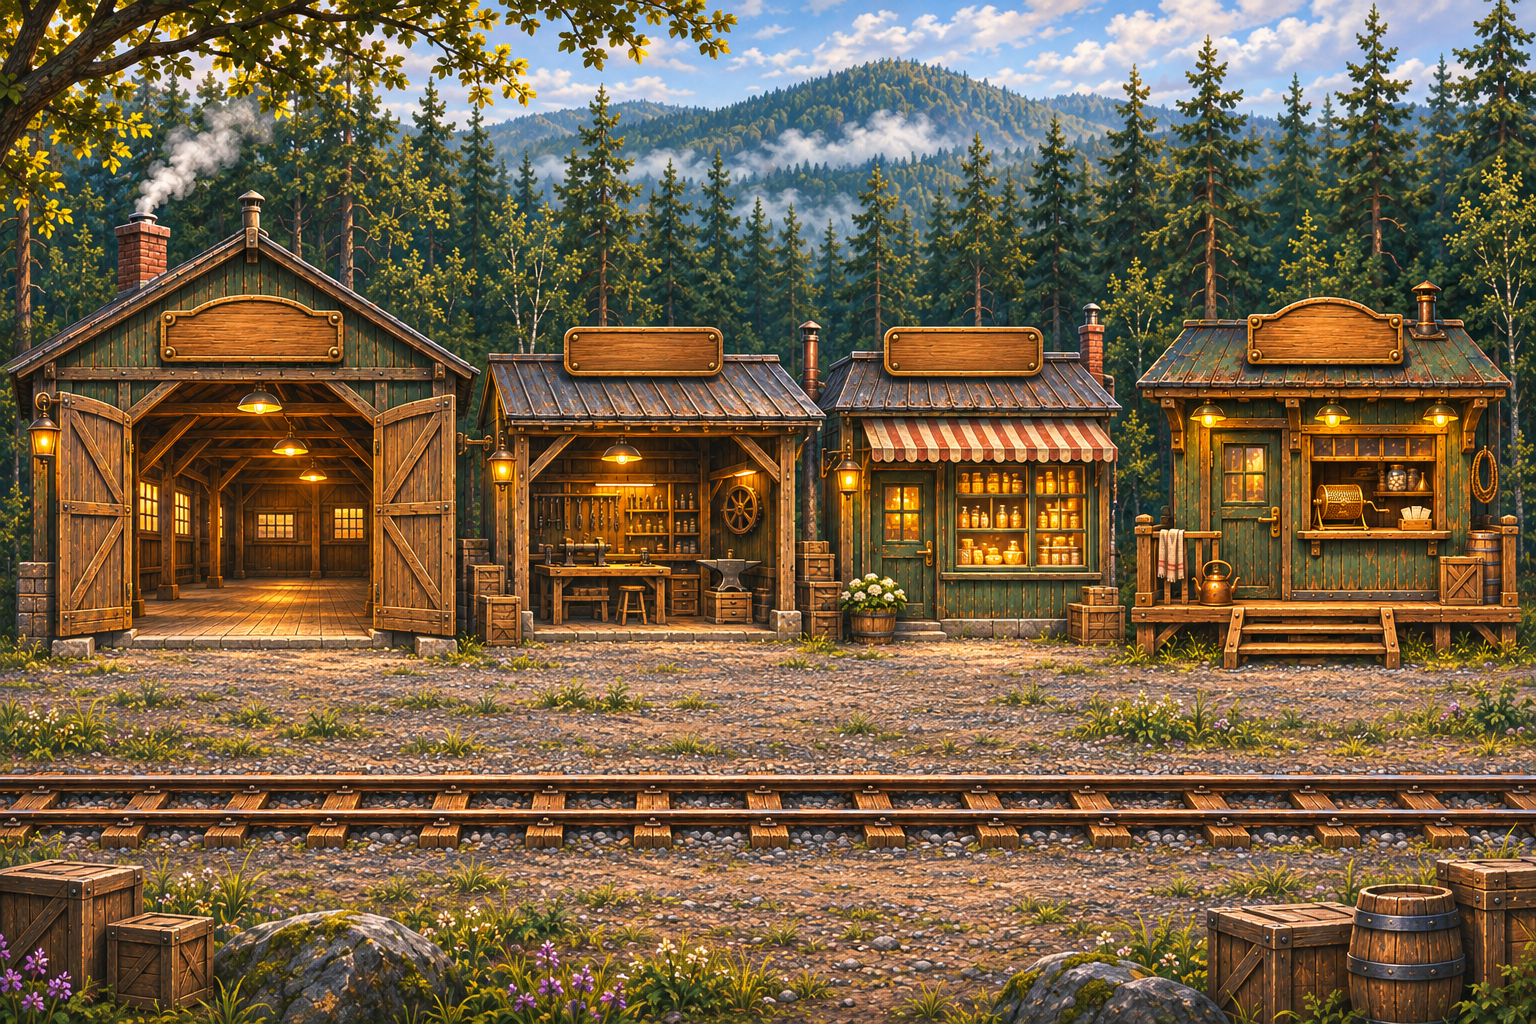
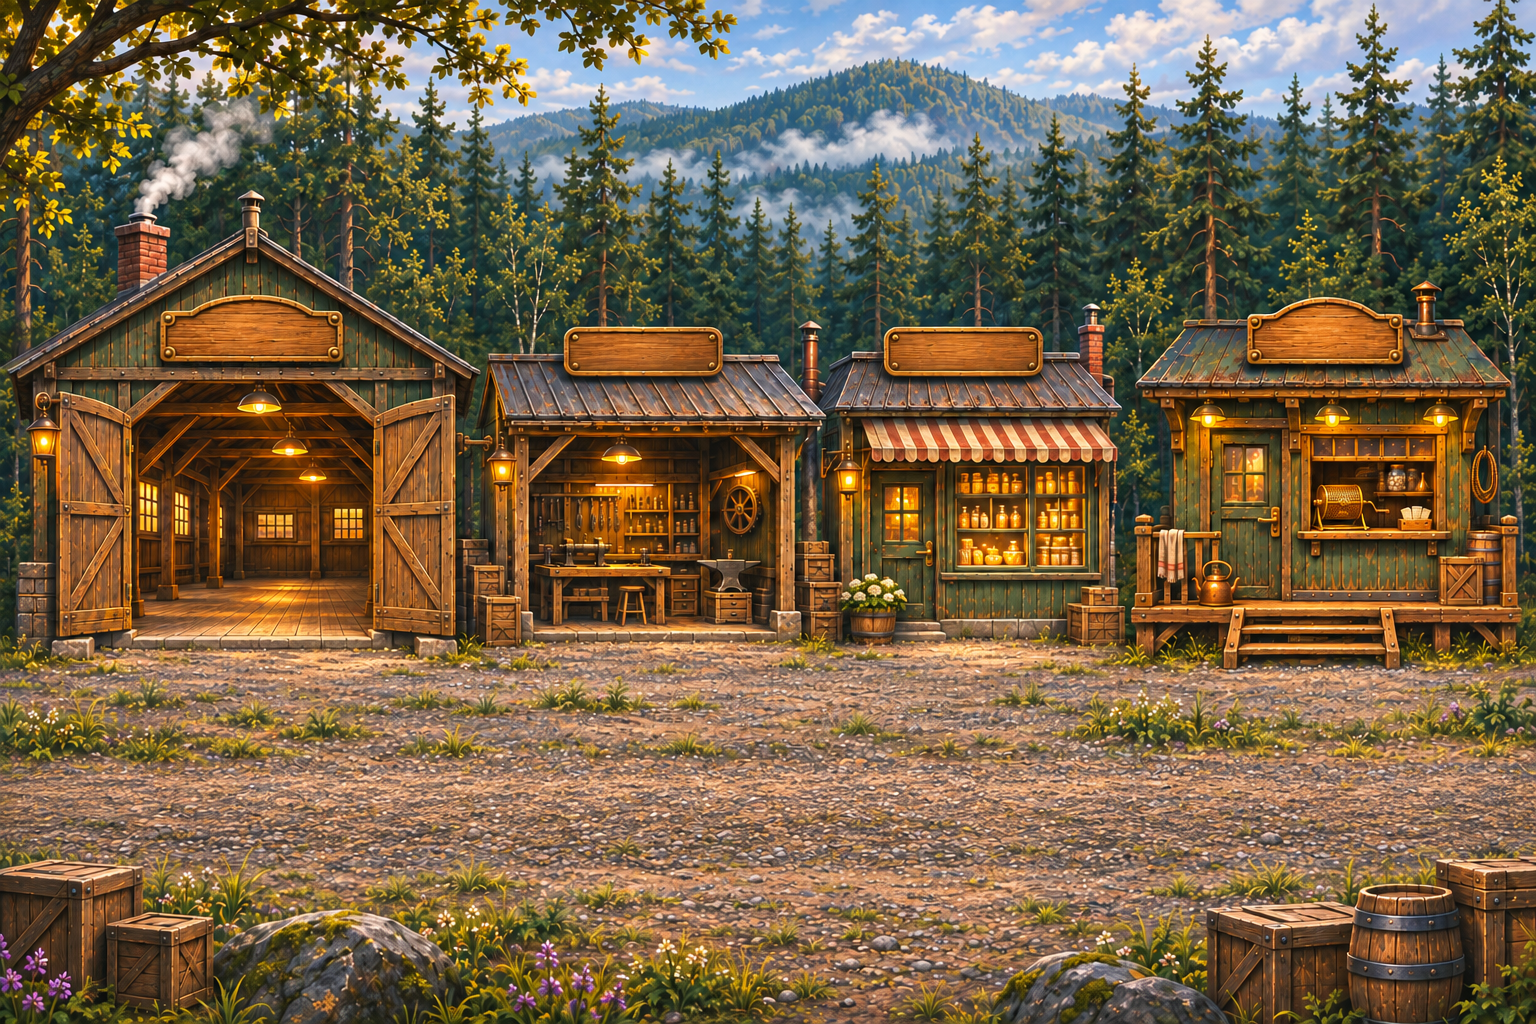
Двор, мастерская и магазин на арте П26 без нарисованных рельсов: рельсы везде одни, игровые

diff --git a/tools/art_sources/ART_QUEUE.md b/tools/art_sources/ART_QUEUE.md
@@ -45,5 +45,5 @@ Never draw letters, numbers or readable text on the images. Never draw the card 
 | P23 | Junction yard «Узловая Лесная» (owner's concept): the yard by day and by evening in the same layout (Depot, Workshop, Shop, Casino with blank signs, a straight empty track across), the workshop interior with a pit, the shop interior with a display track, a 2x2 sheet of place icons; no letters, no trains | DONE (accepted 14.11; connecting on the branch uzlovaya) | tools/art_sources/briefs/P23_uzlovaya/TASK_FOR_GPT.md | tools/art_sources/inbox/P23_uzlovaya/ |
 | P24 | Landing gear of the rail zeppelin (owner: wheels a little like an airplane's, with a soft shock-absorber animation): a 2x2 sheet: the wheel, the strut cylinder, the piston with the fork, the torque link | DONE (accepted 15.11; connected: the gear of the zeppelin) | tools/art_sources/briefs/P24_zeppelin_gear/TASK_FOR_GPT.md | tools/art_sources/inbox/P24_zeppelin_gear/ |
 | P25 | REDO in the right SCALE: the workshop and the shop interiors (the P23 ones are drawn about twice too big: a saw as big as a train). The picture is 17 m wide, rails at 72% of the height, see ref_scale.png (a man 1.8 m, a door 2.1 m, a bench 1.8 m, the 3.4 m petrol car); same style and light as P23 | DONE (accepted 15.11; connected: the workshop and the shop of the yard) | tools/art_sources/briefs/P25_rooms_scale/TASK_FOR_GPT.md | tools/art_sources/inbox/P25_rooms_scale/ |
-| P26 | The yard (day and evening), the workshop and the shop again in the same layout and scale, but WITHOUT RAILS: the game draws one track everywhere (ref_game_track.png); a flat horizontal band where the track goes (yard 78%, rooms 73%) | waiting for GPT | tools/art_sources/briefs/P26_no_rails/TASK_FOR_GPT.md | tools/art_sources/inbox/P26_no_rails/ |
+| P26 | The yard (day and evening), the workshop and the shop again in the same layout and scale, but WITHOUT RAILS: the game draws one track everywhere (ref_game_track.png); a flat horizontal band where the track goes (yard 78%, rooms 73%) | DONE (accepted 15.11; connected: the yard, the workshop and the shop without painted rails) | tools/art_sources/briefs/P26_no_rails/TASK_FOR_GPT.md | tools/art_sources/inbox/P26_no_rails/ |
 | STYLE-TEST | ONE card (Wheel of Fortune) in styles 2-7 for the owner to choose a style; style 1 (painting) already exists as card_10_wheel_of_fortune.png | DONE | tools/art_sources/briefs/P10_tarot_cards/STYLE_TEST_RU.md (use the English text blocks; send each as its own image) | tools/art_sources/inbox/P10_tarot_cards/styles/ (names style_2_origami.png, style_3_symbolism.png, style_4_minimal_geometry.png, style_5_artdeco.png, style_6_engraving.png, style_7_stained_glass.png) |

diff --git a/tools/art_sources/inbox/P26_no_rails/NOTES_FROM_GPT.md b/tools/art_sources/inbox/P26_no_rails/NOTES_FROM_GPT.md
@@ -1,0 +1,11 @@
+# П26 · фоны без рельсов
+
+- `yard_day_v3.png` и `yard_evening_v3.png` — двор с четырьмя зданиями, пустыми вывесками и свободной полосой гравия под путь от 78% высоты.
+- `workshop_interior_v3.png` — мастерская с верстаками, талью и смотровой ямой. Верхнюю кромку пола совместил с отметкой 73%.
+- `shop_interior_v3.png` — магазин с полками, прилавком и каменной платформой. Верхнюю кромку пола совместил с отметкой 73%.
+
+Все четыре фона 1536×1024. Рельсы и шпалы убраны. Композиция и масштаб взяты из образцов.
+
+Слабые места: граница полосы гравия во дворе читается слабо, мелкие детали двора могут смещаться при переходе от дня к вечеру. Наложение игрового пути не проверял.
+
+В брифе сказано «три картинки». Сохранил четыре, как указано в заголовках: два варианта двора и два интерьера.
